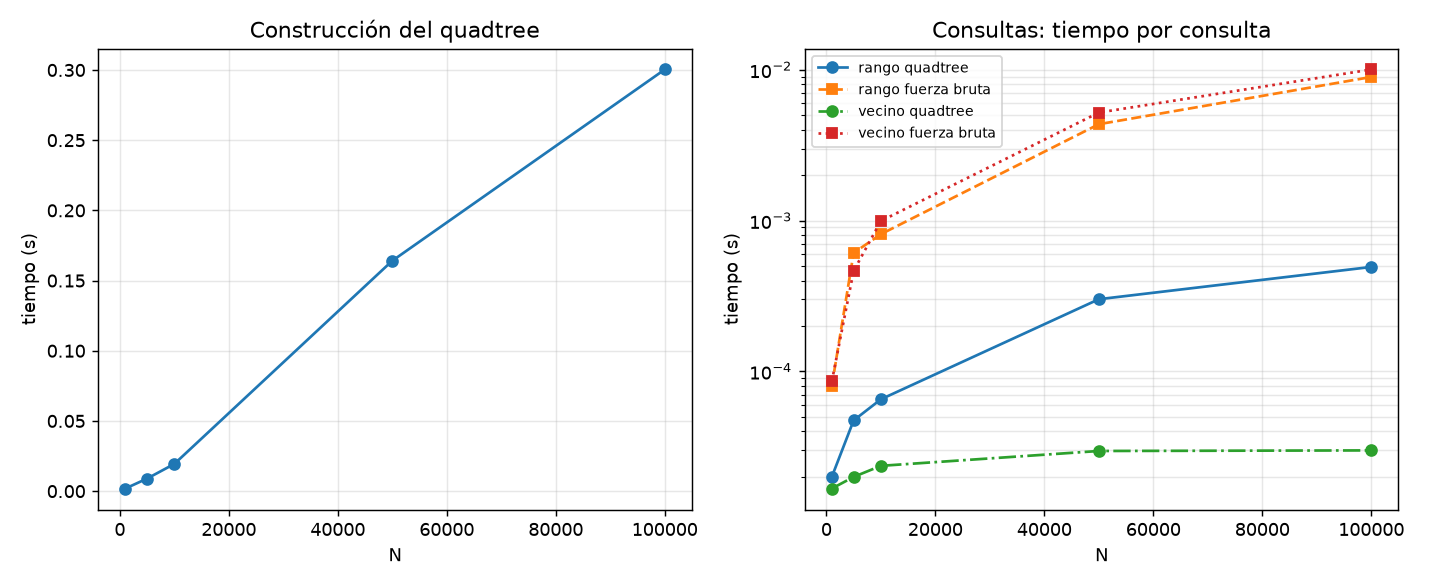
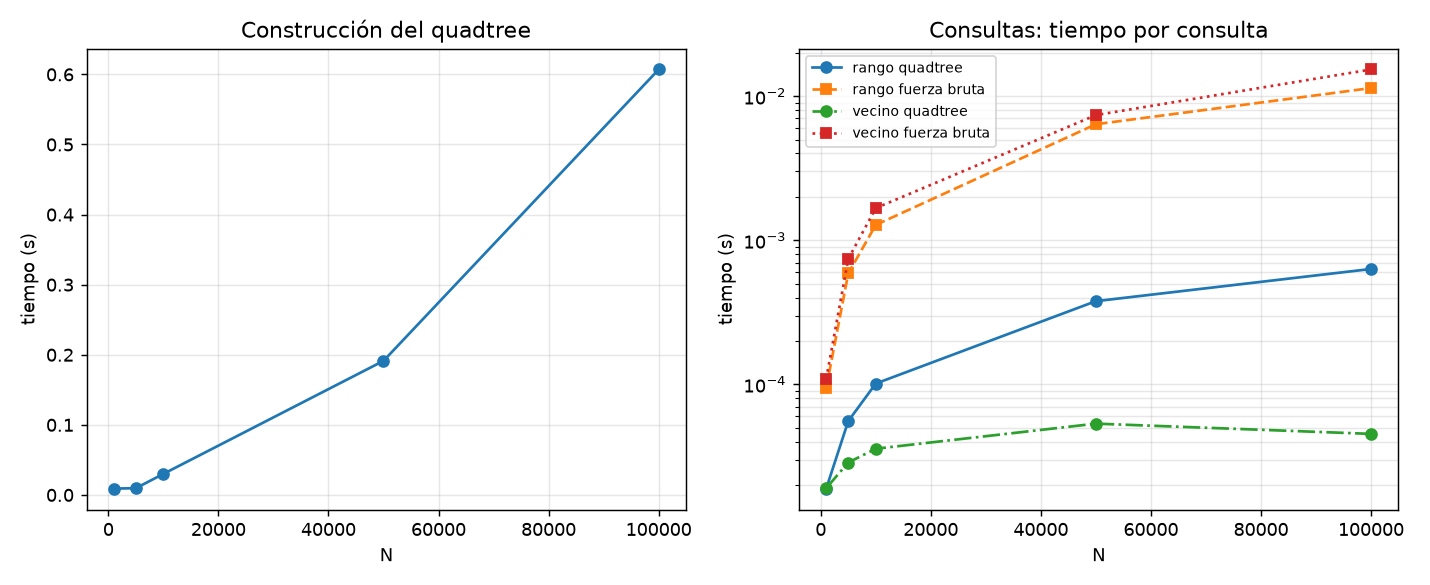
cambios gráficos

diff --git a/Laboratorio_4/visualizacion.py b/Laboratorio_4/visualizacion.py
@@ -1,7 +1,7 @@
 """Visualización del quadtree y de una consulta."""
-
+import os
 import matplotlib.pyplot as plt
-from matplotlib.collections import LineCollection
+from matplotlib.collections import LineCollection, PathCollection
 from matplotlib.patches import Circle
 
 import generador_datos as gd
@@ -60,11 +60,42 @@ def dibujar(puntos, arbol, centro, radio=gd.RADIO, ax=None):
     return ax
 
 
+def dibujar_zoom(puntos, arbol, centro, radio=gd.RADIO, margen=1000.0):
+    """Versión ampliada de dibujar: recorta la vista alrededor de la consulta.
+
+    No modifica dibujar; usa su resultado y ajusta límites, tamaños y título.
+    """
+    ax = dibujar(puntos, arbol, centro, radio)
+    cx, cy = centro
+    ax.set_xlim(cx - margen, cx + margen)
+    ax.set_ylim(cy - margen, cy + margen)
+
+    for coleccion in ax.collections:
+        if isinstance(coleccion, PathCollection):
+            coleccion.set_sizes([s * 3 for s in coleccion.get_sizes()])
+        elif isinstance(coleccion, LineCollection):
+            coleccion.set_linewidths(1.0)
+
+    ax.set_title(f"Zoom ±{margen:.0f} m: rango de {radio:.0f} m y vecino más cercano")
+    return ax
+
+
+
 def main():
-    """Genera datos, construye el árbol y muestra la figura."""
+    """Genera datos, construye el árbol y guarda las figuras."""
+    os.makedirs("graficas", exist_ok=True)
     puntos = gd.generar_puntos(10_000)
     arbol = qt.QuadTree(puntos, gd.LIMITES)
-    dibujar(puntos, arbol, (5000.0, 5000.0), gd.RADIO)
+
+    centro = (5000.0, 5000.0)
+    radio = gd.RADIO
+
+    ax = dibujar(puntos, arbol, centro, radio)
+    ax.figure.savefig("graficas/visualizacion.png", dpi=150, bbox_inches="tight")
+
+    ax_zoom = dibujar_zoom(puntos, arbol, centro, radio, margen=1000)
+    ax_zoom.figure.savefig("graficas/visualizacion_zoom.png", dpi=150, bbox_inches="tight")
+
     plt.show()
 
 

diff --git a/Laboratorio_4/analisis.py b/Laboratorio_4/analisis.py
@@ -17,7 +17,7 @@ RADIO = gd.RADIO
 CARPETA = "graficas"
 
 
-def _memoria_arbol(puntos):
+def memoria_arbol(puntos):
     gc.collect()
     tracemalloc.start()
     arbol = qt.QuadTree(puntos, gd.LIMITES)
@@ -27,7 +27,7 @@ def _memoria_arbol(puntos):
     return actual
 
 
-def _medir_consultas(consultas, funcion_qt, funcion_fb):
+def medir_consultas(consultas, funcion_qt, funcion_fb):
     inicio = time.perf_counter()
     distancias_qt = 0
     for consulta in consultas:
@@ -57,14 +57,14 @@ def _medir(n, semilla):
     return {
         "n": n,
         "nodos": arbol.contar_nodos(),
-        "memoria": _memoria_arbol(puntos),
+        "memoria": memoria_arbol(puntos),
         "tiempo_construccion": tiempo_construccion,
-        "rango": _medir_consultas(
+        "rango": medir_consultas(
             consultas,
             lambda c: arbol.rango(c, RADIO),
             lambda c: fb.rango(puntos, c, RADIO),
         ),
-        "vecino": _medir_consultas(
+        "vecino": medir_consultas(
             consultas,
             arbol.vecino_mas_cercano,
             lambda c: fb.vecino_mas_cercano(puntos, c),

diff --git a/Laboratorio_4/README.md b/Laboratorio_4/README.md
@@ -141,6 +141,7 @@ Las siguientes gráficas permiten observar el comportamiento del Quadtree y comp
 ###  División Espacial del Quadtree
 
 ![Visualización del Quadtree](graficas/visualizacion.png)
+![Visualización del Quadtree Zoom](graficas/visualizacion_zoom.png)
 
 ###  Crecimiento de la Estructura
 
